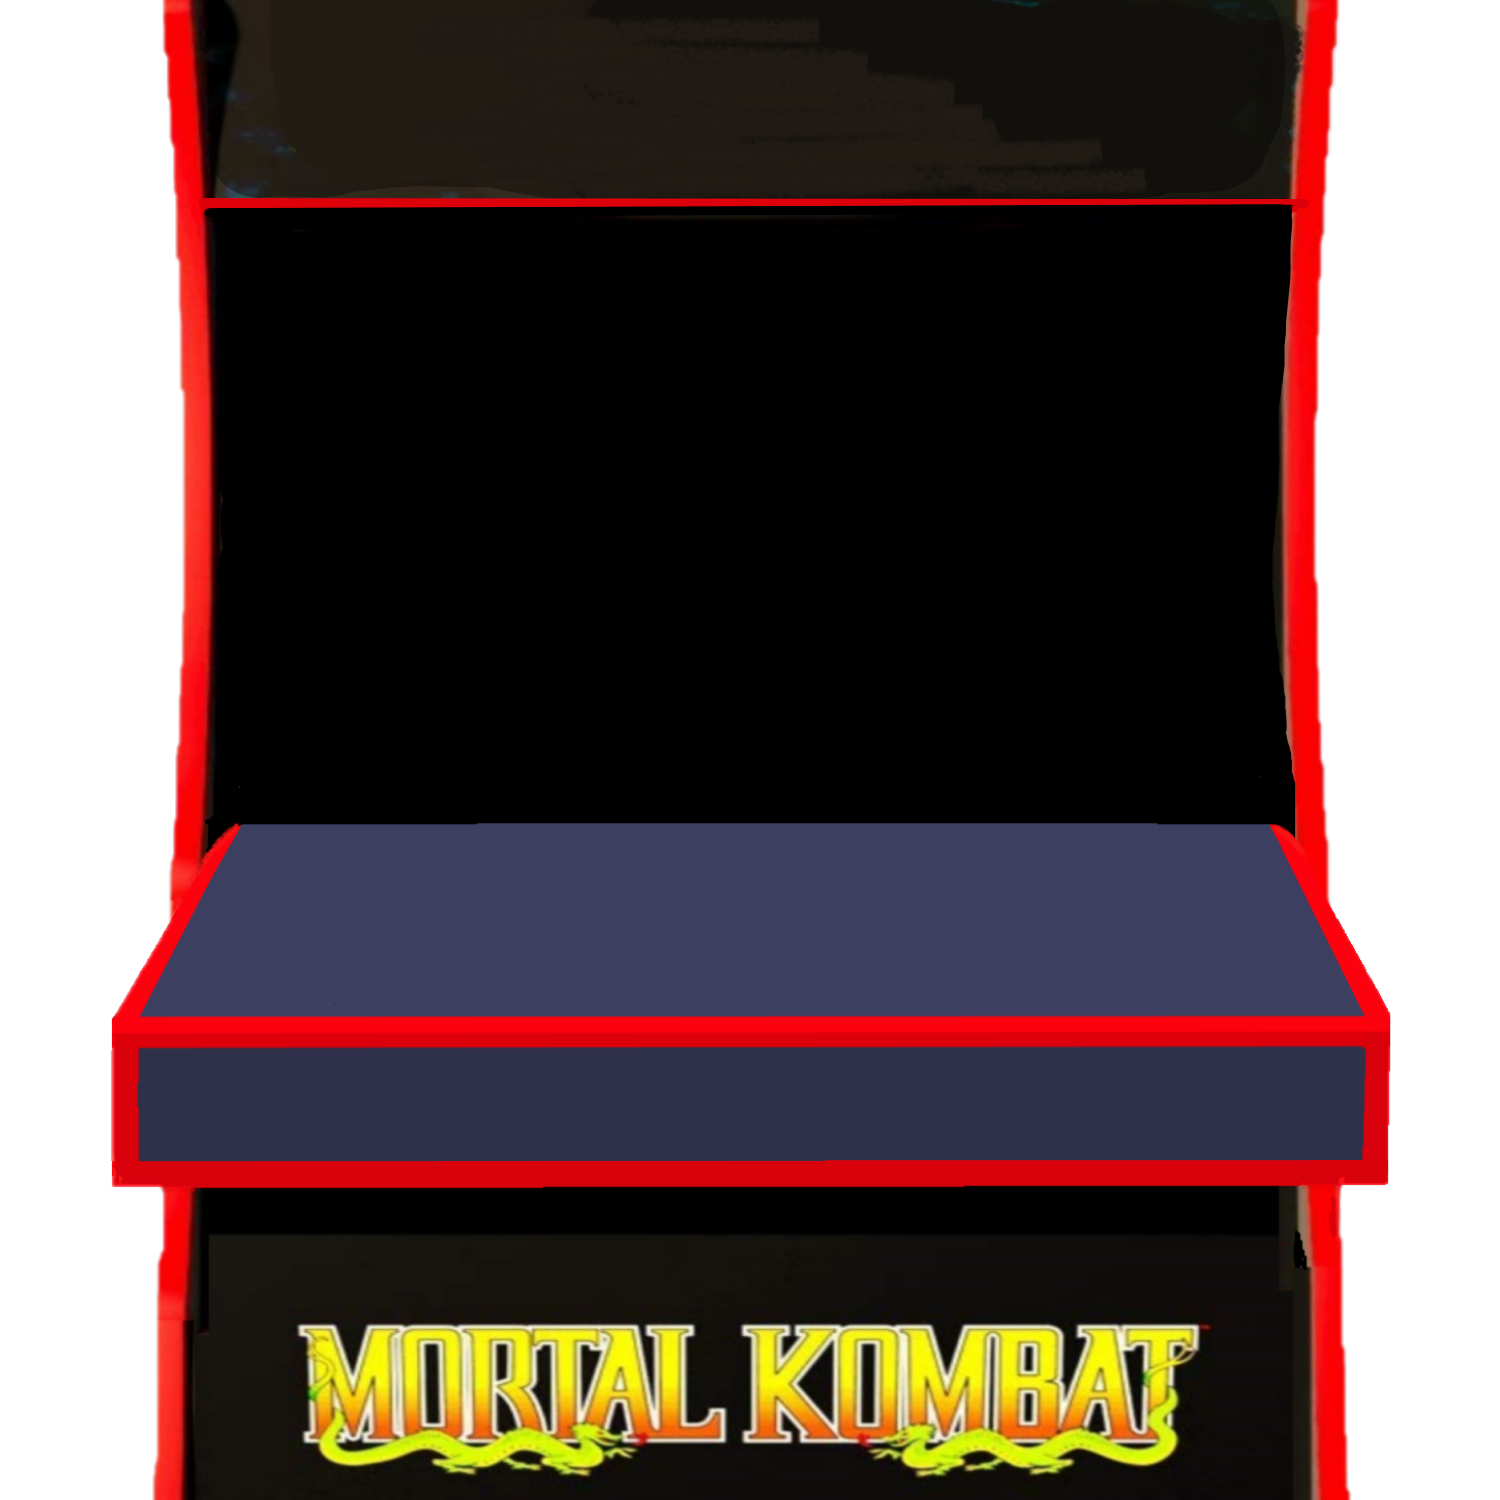
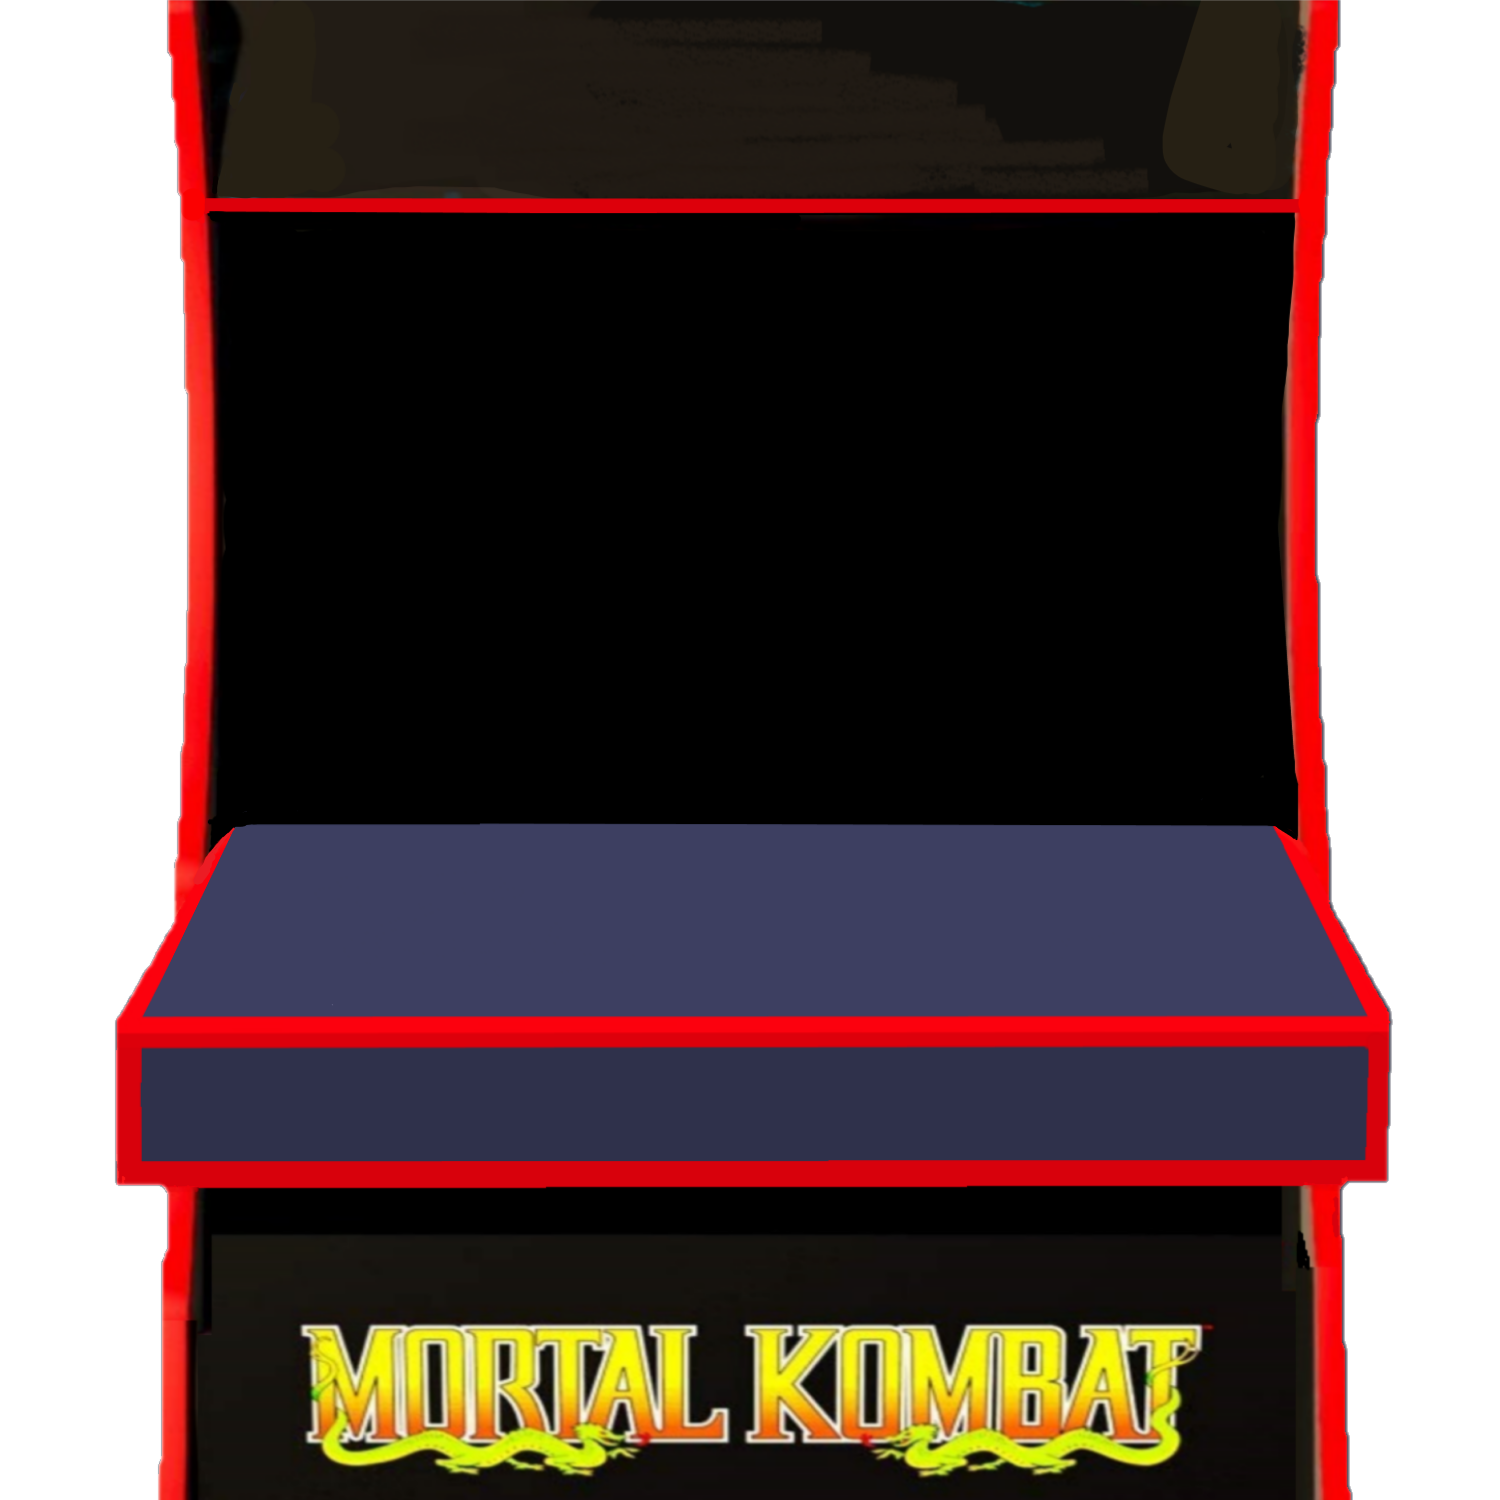
screen fix

diff --git a/styles.css b/styles.css
@@ -34,6 +34,11 @@ body{
     src: url(font/MKtitle.otf);
 }
 
+.arkad img{
+margin-left: 30px;
+margin-top: 30px;
+}
+
 header {
   position: relative;
     grid-area: header;
@@ -43,13 +48,22 @@ header {
     text-align: center;
     font-family: MKtitle;
     opacity: 1;
-    margin-top: 25px;
-    margin-left: 30px;
-    
+    height: 137px;
+    border-bottom: solid 14px rgb(217, 0, 0);
+    margin-top: 0px;
+    margin-left: 0px;
+    background-color: #262014;
+    width: 100%;
 }
 
 header h1 {
+  margin-top: 30px;
+  font-size: 64px;
+  color: rgb(255, 255, 255);
   animation: fadeIn 4s ease-in-out alternate infinite;
+  z-index: 2;
+  text-align: center;
+  font-family: MKtitle;
 }
 
 
@@ -57,7 +71,8 @@ header h1 {
 main{
     grid-area: main;
     /* background-color: blue; */
-    min-height: 600px;
+    min-height: 640px;
+    margin-top: -45px;
     
 }
 
@@ -83,7 +98,7 @@ footer{
 }
 
 
-
+/* 
 .animated-background {
     width: 100%;          
     height: 100%;        
@@ -98,7 +113,7 @@ footer{
     z-index: -1;
     position: relative;
 
-  }
+  } */
 
   audio {
     display: none;
@@ -173,17 +188,15 @@ footer{
   }
 }
 
-@keyframes ringfloat {
-  0%, 100% {
-    transform: translateY(0px);
-    transform: rotate3d(1, 0, 0, 40deg);
+ @keyframes ringfloat {
+    0%, 100% {
+      transform: translateY(40px) rotate3d(1, 0, 0, 45deg);
+    }
+    50% {
+      transform: translateY(-40px);
+    }
+    /* transform: scaleX(1.05) */
   }
-  50% {
-    transform: translateY(-50px);
-    transform: translateY(0px);
-    transform: scaleX(1.05)
-  }
-}
 
 .bag{
     /* display: flex;
@@ -283,8 +296,8 @@ margin-top: -92px;
 
 }
 .screen {
-  margin-left: -30px;
-  margin-top: 118px;
+  margin-left: -0px;
+  margin-top: 95px;
   position: absolute;
   z-index: 1 ;
   opacity: 1;
@@ -300,8 +313,8 @@ margin-top: -92px;
   left: 0;
   bottom: 0;
   right: 0;
-  width: 105%;
-  margin-left: 10px;
+  width: 103%;
+  margin-left: -20px;
   margin-right: 450px;
   margin-bottom: 10px;
   background: linear-gradient(rgba(18, 16, 16, 0) 50%, rgba(0, 0, 0, 0.25) 50%), linear-gradient(90deg, rgba(255, 0, 0, 0.06), rgba(0, 255, 0, 0.02), rgba(0, 0, 255, 0.06));

diff --git a/index.html b/index.html
@@ -12,22 +12,22 @@
 
 
 <body>
-    
+    <div class="arkad">
+        <img src="images/arkad.png" alt="">
+    </div>
     <audio controls autoplay>   <source src="/music/level-1.mp3" type="audio/mpeg">
 
     </audio>
 <header>
-    <div class="screen">
-        <img src="images/screen3.png" alt="">
-    </div>
-    <div class="arkad">
-        <img src="images/arkad.png" alt="">
-    </div>
-    <h1 class="h1flicker">Rock Paper Scissors</h1>
+<h1>ROCK PAPER SCISSORS</h1>
 </header>
 
 <main>
-    
+    <div class="screen">
+        <img src="images/screen3.png" alt="">
+    </div>
+
+    <h1 class="h1flicker">Rock Paper Scissors</h1>
      <div class="animated-background"></div>
 
     <div class="ring">
